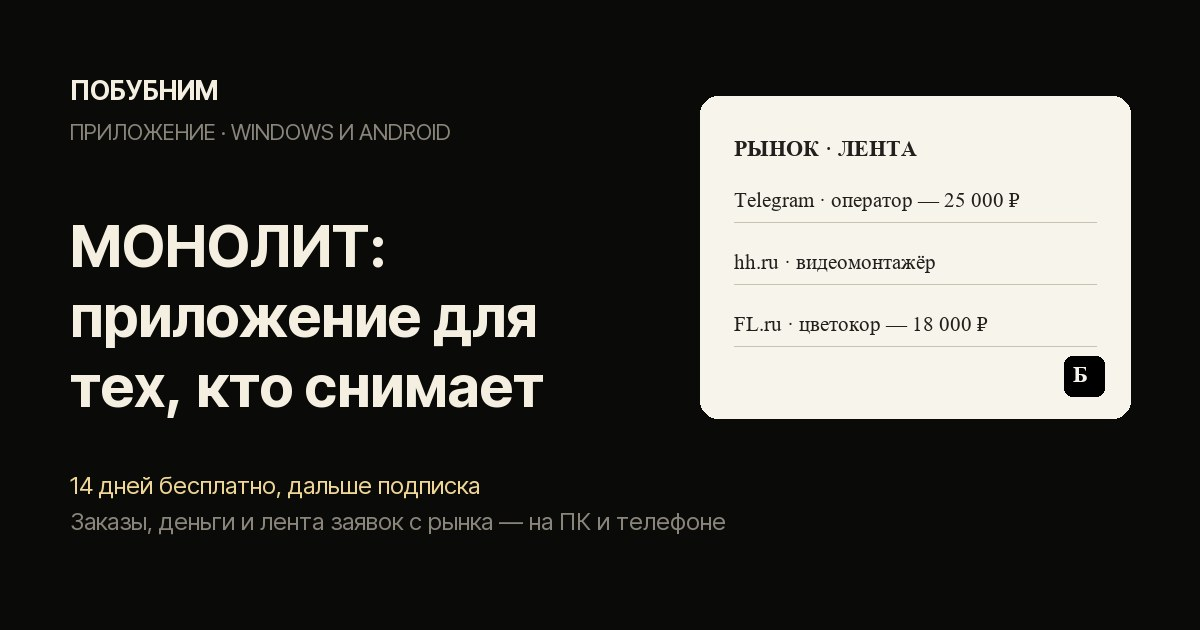
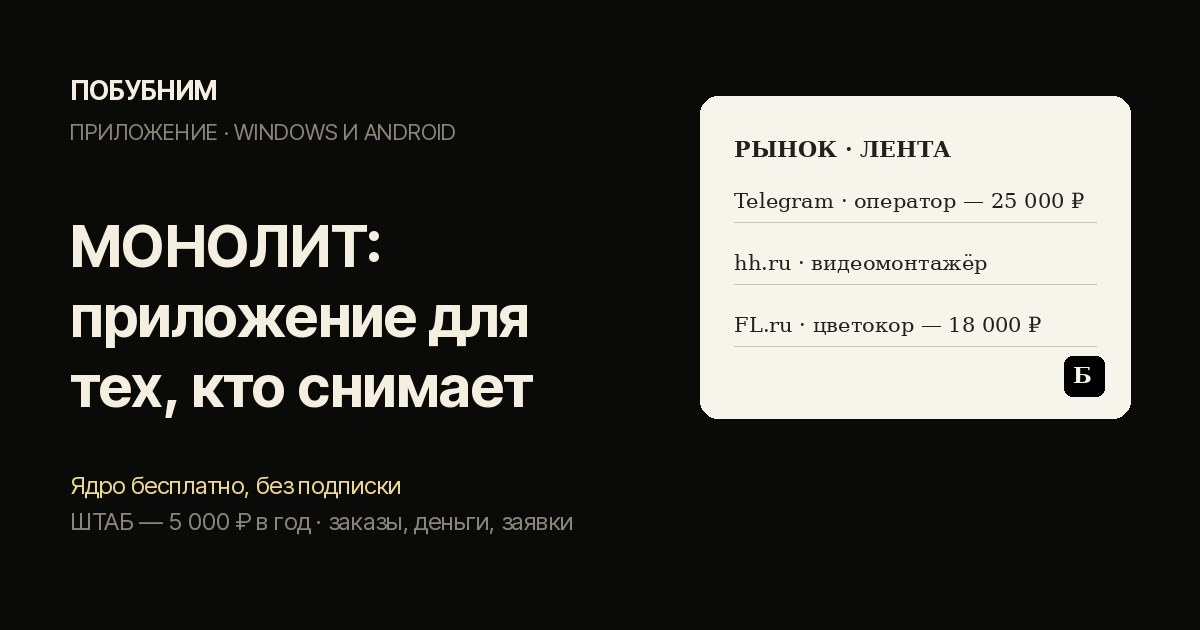
OG-карточки МОНОЛИТА: старая модель оплаты ушла и из превью
Тексты привели к канону 21.09 (ядро бесплатно, ШТАБ 5 000 ₽ в год), а
картинки превью остались прежними: tool-monolit.jpg обещал «14 дней
бесплатно, дальше подписка», zakazy-sami.jpg — «14 дней без карты». Эти
строки показывались в каждой ссылке на страницы продукта в мессенджерах.

Генераторы собираются и в облаке: шрифты Windows заменяются DejaVu (в
Liberation Serif нет знака ₽), build_og_tools принимает список slug.

Claude-Session: https://claude.ai/code/session_01DcSwASNb9ucWQRnLk3qDCX

diff --git a/tools/build_og_tools.py b/tools/build_og_tools.py
@@ -5,7 +5,8 @@
 это документ. Раньше все двенадцать ссылок в мессенджерах выглядели
 одинаково (общий og/home.jpg), теперь у каждой своя карточка.
 
-Запуск:  python tools/build_og_tools.py   ->  assets/og/tool-<slug>.jpg
+Запуск:  python tools/build_og_tools.py [slug ...]  ->  assets/og/tool-<slug>.jpg
+         (без аргументов — все карточки; со slug — только названные)
 """
 import os
 
@@ -47,6 +48,9 @@ TOOLS = {
     "soglasie-na-semku-rebenka": ("Согласие на съёмку ребёнка", "Документы · дети",
                                   "СОГЛАСИЕ ЗАКОННОГО ПРЕДСТАВИТЕЛЯ", ["1. Персональные данные — 152-ФЗ", "2. Изображение — ст. 152.1 ГК",
                                                                       "3. Публикация — ст. 10.1"]),
+    "kommercheskoe-predlozhenie-na-videosemku": ("Коммерческое предложение на съёмку", "Клиент · документы",
+                                                 "ПРЕДЛОЖЕНИЕ № 12", ["1. Задача клиента", "2. Варианты: состав и цена",
+                                                                             "3. Что не входит, срок"]),
     "shot-list": ("Шот-лист: план кадров", "Планирование · съёмка",
                   "ШОТ-ЛИСТ · СЦЕНА 1", ["1.1 Детали: кольца — ECU", "1.2 Проход — общий (WS)",
                                          "7 кадров · 2 ч 45 мин из 8 ч"]),
@@ -82,13 +86,19 @@ TOOLS = {
 NOTE_DEFAULT = ("Бесплатно, без регистрации",
                 "Всё считается в браузере — данные никуда не уходят")
 NOTES = {
-    "monolit": ("14 дней бесплатно, дальше подписка",
-                "Заказы, деньги и лента заявок с рынка — на ПК и телефоне"),
+    # 24.09: карточка жила со старой моделью оплаты («14 дней, дальше подписка»)
+    # и три дня после правки текстов продавала её в каждом превью ссылки
+    "monolit": ("Ядро бесплатно, без подписки",
+                "ШТАБ — 5 000 ₽ в год · заказы, деньги, заявки"),
 }
 
 REPO_FONTS = os.path.join(REPO, "assets", "fonts")
 FALLBACK = {"bold": "C:/Windows/Fonts/arialbd.ttf", "regular": "C:/Windows/Fonts/arial.ttf",
             "serif": "C:/Windows/Fonts/times.ttf", "serif-bold": "C:/Windows/Fonts/timesbd.ttf"}
+if os.name != "nt":   # облачная сессия: в Liberation Serif нет знака ₽, в DejaVu Serif есть
+    DJ = "/usr/share/fonts/truetype/dejavu/"
+    FALLBACK.update({"serif": DJ + "DejaVuSerif.ttf", "serif-bold": DJ + "DejaVuSerif-Bold.ttf",
+                     "bold": DJ + "DejaVuSans-Bold.ttf", "regular": DJ + "DejaVuSans.ttf"})
 VAR = os.path.join(REPO_FONTS, "InterTight-var.ttf")   # переменный, с кириллицей
 WEIGHT = {"bold": "Bold", "regular": "Regular"}
 
@@ -116,7 +126,7 @@ def wrap(draw, text, f, max_w):
     return lines
 
 
-def build():
+def build(only=None):
     f_brand = font("bold", 26)
     f_over = font("regular", 22)
     f_title = font("bold", 58)
@@ -125,6 +135,8 @@ def build():
     f_doc = font("serif", 21)
 
     for slug, (title, over, doc_h, doc_lines) in TOOLS.items():
+        if only and slug not in only:
+            continue
         im = Image.new("RGB", (W, H), BG)
         d = ImageDraw.Draw(im)
 
@@ -161,4 +173,5 @@ def build():
 
 
 if __name__ == "__main__":
-    build()
+    import sys
+    build(set(sys.argv[1:]) or None)

diff --git a/tools/build_og_mono.py b/tools/build_og_mono.py
@@ -21,7 +21,7 @@ from PIL import Image
 ROOT = pathlib.Path(__file__).resolve().parent.parent
 OUT = ROOT / "assets" / "og"
 FONTS = ROOT / "assets" / "fonts"
-CHROME = r"C:\Program Files\Google\Chrome\Application\chrome.exe"
+from _chrome import CHROME  # Windows или облако — tools/_chrome.py
 
 # slug: (надчерк, заголовок, подпись под ним, число в кольце, подпись числа)
 CARDS = {
@@ -67,7 +67,7 @@ h1{{margin-top:22px;font-family:'Manrope';font-size:58px;font-weight:800;letter-
     <div class="eye">{eye}</div>
     <h1>{title}</h1>
     <div class="sub">{sub}</div>
-    <div class="chips"><span class="chip">Windows и Android</span><span class="chip w">14 дней без карты</span></div>
+    <div class="chips"><span class="chip">Windows и Android</span><span class="chip w">Ядро бесплатно, без подписки</span></div>
   </div>
   <div class="ring">
     <svg width="330" height="330" viewBox="0 0 330 330">
